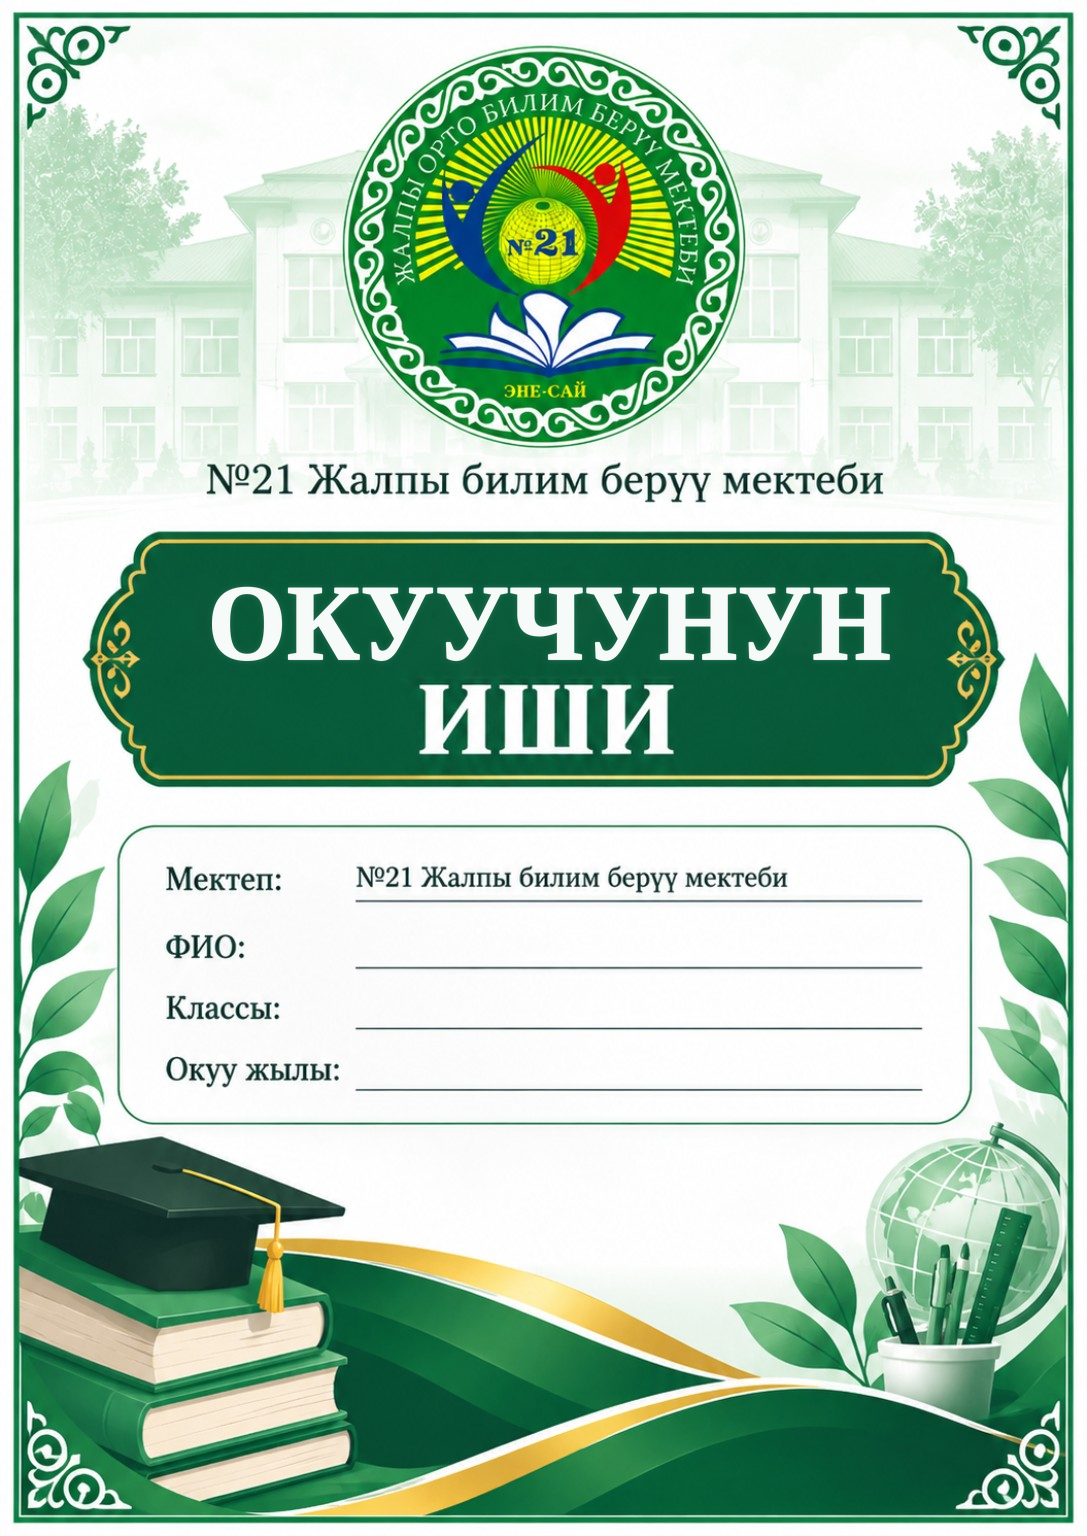
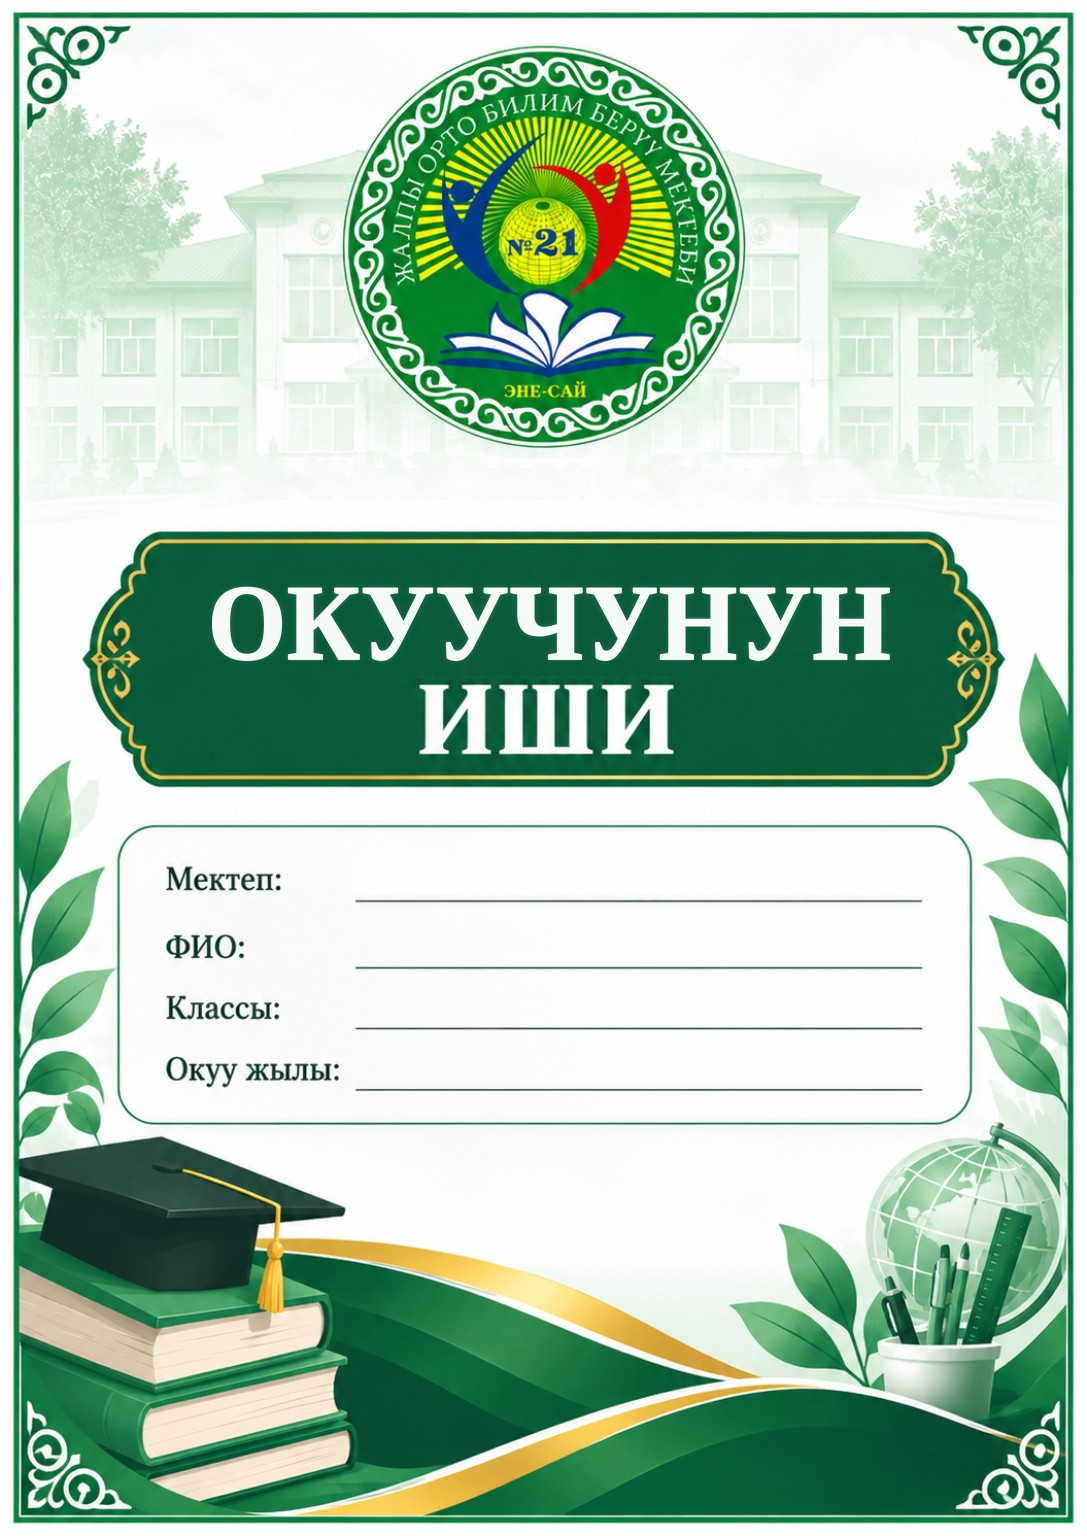
Название школы «№21 ЖББ мектеби» и сборка шаблона с заменой логотипа
- Старая надпись «№21 Жалпы билим берүү мектеби» удалена из шаблона
  (под логотипом и в строке «Мектеп:»); новое название рисуется на Canvas
  шрифтом PT Serif с прежними размером, цветом и положением.
- tools/build_template.py: заголовок, удаление старого названия,
  замена эмблемы на tools/school21_logo.png (если файл есть).

Claude-Session: https://claude.ai/code/session_015X9nsmr8EPCjz2vEMeQuGr

Changed region(s): [[0.1822, 0.2812, 0.8197, 0.3438], [0.3339, 0.5625, 0.7286, 0.5938]]

diff --git a/src/lib/cover.js b/src/lib/cover.js
@@ -1,10 +1,13 @@
 /**
  * Рисование обложки на Canvas.
- * Оригинальный шаблон public/Cover_Template.png используется как фон без изменений —
- * поверх него вписываются только ФИО, класс и учебный год.
+ * Шаблон public/Cover_Template.png (собирается tools/build_template.py) используется как фон —
+ * поверх него вписываются название школы (под логотипом и в строке «Мектеп:»),
+ * ФИО, класс и учебный год.
  *
  * Координаты измерены по пикселям исходного изображения 1087 × 1536.
  */
+export const SCHOOL = '№21 ЖББ мектеби';
+
 export const TEMPLATE = {
   url: `${import.meta.env.BASE_URL}Cover_Template.png`,
   width: 1087,
@@ -12,7 +15,10 @@ export const TEMPLATE = {
   textX: 357, // левый край текста = начало напечатанного «№21 …»
   lineRight: 921, // правый край линий
   baselineAboveLine: 14, // базовая линия текста над чертой
-  lines: { fullName: 967, className: 1028, year: 1089 },
+  lines: { school: 900, fullName: 967, className: 1028, year: 1089 },
+  // Название школы под логотипом: по центру, тем же шрифтом и цветом, что был в оригинале
+  // (размер подобран по ширине прежней строки «№21 Жалпы билим берүү мектеби»: 207…882 px)
+  header: { centerX: 545, baseline: 493, color: '#18372e', fontSize: 42 },
   textColor: '#1f2e2b',
   fontFamily: '"PT Serif", "Times New Roman", serif',
   baseFontSize: 26.5, // совпадает по ширине с напечатанной строкой школы
@@ -46,7 +52,7 @@ let fontPromise = null;
 export function loadFonts() {
   if (!fontPromise) {
     fontPromise = document.fonts
-      .load(`${TEMPLATE.baseFontSize}px "PT Serif"`, 'АаЖжҮүҢңӨө№0123456789–-')
+      .load(`${TEMPLATE.baseFontSize}px "PT Serif"`, 'АаЖжБҮүҢңӨө№0123456789–-')
       .then((faces) => {
         if (!faces.length) throw new Error('Шрифт PT Serif не загрузился.');
       })
@@ -92,6 +98,25 @@ function drawOnLine(ctx, text, lineY, scale) {
   ctx.restore();
 }
 
+function drawHeader(ctx, text, scale) {
+  const { centerX, baseline, color, fontSize } = TEMPLATE.header;
+  ctx.save();
+  ctx.font = `${fontSize * scale}px ${TEMPLATE.fontFamily}`;
+  ctx.fillStyle = color;
+  ctx.strokeStyle = color;
+  ctx.textBaseline = 'alphabetic';
+  ctx.textAlign = 'left';
+  // центрируем по видимым границам букв, как было напечатано на шаблоне
+  const m = ctx.measureText(text);
+  const x = centerX * scale - (m.actualBoundingBoxRight - m.actualBoundingBoxLeft) / 2;
+  ctx.filter = `blur(${0.3 * scale}px)`;
+  ctx.lineWidth = 0.45 * scale;
+  ctx.lineJoin = 'round';
+  ctx.fillText(text, x, baseline * scale);
+  ctx.strokeText(text, x, baseline * scale);
+  ctx.restore();
+}
+
 /**
  * @param {HTMLCanvasElement} canvas
  * @param {{fullName: string, className: string, year: string}} data
@@ -108,7 +133,8 @@ export async function renderCover(canvas, data, scale = 1) {
   ctx.imageSmoothingQuality = 'high';
   ctx.drawImage(img, 0, 0, canvas.width, canvas.height);
 
-  // Школа уже напечатана на шаблоне — повторно не рисуем
+  drawHeader(ctx, SCHOOL, scale);
+  drawOnLine(ctx, SCHOOL, TEMPLATE.lines.school, scale);
   drawOnLine(ctx, data.fullName, TEMPLATE.lines.fullName, scale);
   drawOnLine(ctx, data.className, TEMPLATE.lines.className, scale);
   drawOnLine(ctx, data.year, TEMPLATE.lines.year, scale);

diff --git a/src/App.jsx b/src/App.jsx
@@ -1,10 +1,9 @@
 import { useCallback, useEffect, useMemo, useRef, useState } from 'react';
 import { saveAs } from 'file-saver';
-import { EXPORT_SCALE, canvasToPngBlob, renderCover } from './lib/cover';
+import { EXPORT_SCALE, SCHOOL, canvasToPngBlob, renderCover } from './lib/cover';
 import { buildDocx } from './lib/docx';
 import './App.css';
 
-const SCHOOL = '№21 Жалпы билим берүү мектеби';
 const EMPTY = { fullName: '', className: '', year: '' };
 const YEAR_RE = /^\s*(\d{4})\s*[-–—]\s*(\d{4})\s*$/;
 

diff --git a/tools/build_template.py b/tools/build_template.py
@@ -1,0 +1,136 @@
+"""
+Собирает public/Cover_Template.png из исходного шаблона:
+
+1. Заголовок «СТУДЕНТТИН» → «ОКУУЧУНУН» (tools/replace_title.py).
+2. Удаляет напечатанное название школы — строку под логотипом и строку «Мектеп:».
+   Название школы («№21 ЖББ мектеби») теперь рисует приложение на Canvas
+   тем же шрифтом PT Serif (см. src/lib/cover.js), поэтому его легко поменять.
+3. Удаляет старую эмблему и ставит на её место оригинальный логотип школы
+   из tools/school21_logo.png (PNG с прозрачностью или JPG/PNG на белом фоне).
+   Если файла нет — шаг пропускается и старая эмблема остаётся.
+
+Запуск (нужны Python 3, Pillow, numpy, opencv-python):
+    python3 tools/build_template.py
+"""
+import os
+import sys
+
+import cv2
+import numpy as np
+from PIL import Image
+
+sys.path.insert(0, os.path.dirname(os.path.abspath(__file__)))
+import replace_title  # noqa: E402
+
+ROOT = replace_title.ROOT
+DST = replace_title.DST
+LOGO = os.path.join(ROOT, 'tools', 'school21_logo.png')
+
+# Геометрия на оригинале (пиксели 1087 × 1536)
+# Строки с названием школы: (y0, y1, x0, x1) — полоса удаления, не задевая логотип и черту
+HEADER_BAND = (455, 506, 195, 895)  # под логотипом, крупно; за ним — бледное здание
+# «Мектеп:» — над чертой y = 900. Фон белый и однородный по горизонтали, поэтому каждая
+# строка полосы заливается фоном той же строки справа от текста (x = REF_X0..REF_X1)
+FIELD_BAND = (856, 898, 350, 805)
+REF_X0, REF_X1 = 810, 915
+# Старая эмблема: круг
+EMBLEM_CX, EMBLEM_CY, EMBLEM_R = 543.5, 246.5, 201
+LOGO_DIAMETER = 406  # чуть больше старой, чтобы край новой полностью её перекрыл
+SS = 4  # суперсэмплинг для гладкого края круга
+
+
+def inpaint(img, mask, radius=7):
+    a = np.asarray(img)
+    out = cv2.inpaint(a[:, :, ::-1].copy(), mask, radius, cv2.INPAINT_TELEA)[:, :, ::-1].astype(float)
+    # лёгкое «зерно», чтобы залитая зона не выглядела пластиковой
+    rng = np.random.default_rng(21)
+    noise = rng.normal(0, 0.6, out.shape[:2])[:, :, None]
+    out = np.where((mask > 0)[:, :, None], out + noise, out)
+    return Image.fromarray(np.clip(out, 0, 255).astype(np.uint8))
+
+
+def erase_school_text(img):
+    # строка под логотипом: инпейнтинг только по буквам, чтобы сохранить рисунок здания
+    a = np.asarray(img).astype(float)
+    y0, y1, x0, x1 = HEADER_BAND
+    band = a[y0:y1, x0:x1].mean(2)
+    mask = np.zeros(a.shape[:2], np.uint8)
+    # буквы и их сглаженный край — всё, что заметно темнее фона
+    mask[y0:y1, x0:x1] = ((np.median(band) - band) > 6).astype(np.uint8) * 255
+    mask = cv2.dilate(mask, np.ones((5, 5), np.uint8))
+    clip = np.zeros_like(mask)  # не выходим за полосу
+    clip[y0:y1, x0:x1] = 1
+    img = inpaint(img, mask * clip)
+
+    # строка «Мектеп:»: построчная заливка фоном
+    a = np.asarray(img).astype(float).copy()
+    y0, y1, x0, x1 = FIELD_BAND
+    row_bg = np.median(a[y0:y1, REF_X0:REF_X1], axis=1)  # (строки, RGB)
+    rng = np.random.default_rng(21)
+    noise = rng.normal(0, 0.6, (y1 - y0, x1 - x0))[:, :, None]
+    a[y0:y1, x0:x1] = row_bg[:, None, :] + noise
+    return Image.fromarray(np.clip(a, 0, 255).round().astype(np.uint8))
+
+
+def circle_alpha(size, diameter):
+    """Маска круга с гладким краем (суперсэмплинг)."""
+    big = size * SS
+    yy, xx = np.mgrid[0:big, 0:big]
+    c = (big - 1) / 2
+    inside = ((xx - c) ** 2 + (yy - c) ** 2) <= (diameter * SS / 2) ** 2
+    m = Image.fromarray(inside.astype(np.uint8) * 255).resize((size, size), Image.LANCZOS)
+    return np.asarray(m).astype(float) / 255.0
+
+
+def load_logo():
+    """Логотип: квадрат по кругу эмблемы, RGBA с круглой альфой."""
+    logo = Image.open(LOGO).convert('RGBA')
+    a = np.asarray(logo).astype(float)
+    rgb, alpha = a[:, :, :3], a[:, :, 3]
+    if alpha.min() > 250:
+        # непрозрачная картинка: фон — почти белые пиксели по краям
+        content = (rgb.min(2) < 235)
+    else:
+        content = alpha > 128
+    ys, xs = np.where(content)
+    x0, x1, y0, y1 = xs.min(), xs.max() + 1, ys.min(), ys.max() + 1
+    side = max(x1 - x0, y1 - y0)
+    cx, cy = (x0 + x1) / 2, (y0 + y1) / 2
+    box = (round(cx - side / 2), round(cy - side / 2), round(cx + side / 2), round(cy + side / 2))
+    sq = logo.crop(box)  # пропорции 1:1 — эмблема не растягивается
+    sq = sq.resize((LOGO_DIAMETER, LOGO_DIAMETER), Image.LANCZOS)
+    out = np.asarray(sq).astype(float)
+    # обрезаем по кругу на полпикселя внутри, чтобы не тянуть белый ореол фона
+    out[:, :, 3] *= circle_alpha(LOGO_DIAMETER, LOGO_DIAMETER - 1)
+    return Image.fromarray(np.clip(out, 0, 255).astype(np.uint8), 'RGBA')
+
+
+def replace_emblem(img):
+    if not os.path.exists(LOGO):
+        print('Нет', LOGO, '— старая эмблема оставлена без изменений.')
+        return img
+    # 1) убираем старую эмблему вместе с тенью и восстанавливаем фон здания
+    h, w = img.height, img.width
+    yy, xx = np.mgrid[0:h, 0:w]
+    mask = (((xx - EMBLEM_CX) ** 2 + (yy - EMBLEM_CY) ** 2) <= (EMBLEM_R + 7) ** 2).astype(np.uint8) * 255
+    img = inpaint(img, mask, radius=15)
+    # 2) ставим новую эмблему точно по центру прежней
+    logo = load_logo()
+    left = round(EMBLEM_CX - LOGO_DIAMETER / 2)
+    top = round(EMBLEM_CY - LOGO_DIAMETER / 2)
+    img = img.convert('RGBA')
+    img.alpha_composite(logo, (left, top))
+    return img.convert('RGB')
+
+
+def main():
+    img = replace_title.load()
+    img = replace_title.draw_word(replace_title.erase_line(img), replace_title.NEW_WORD)
+    img = erase_school_text(img)
+    img = replace_emblem(img)
+    img.save(DST, optimize=True)
+    print('Готово:', DST)
+
+
+if __name__ == '__main__':
+    main()

diff --git a/README.md b/README.md
@@ -81,10 +81,18 @@ npm run preview    # http://localhost:4173
 - «ОКУУЧУНУН» нарисовано тем же типом шрифта (жирная антиква), с той же высотой букв, базовой линией, центровкой, белым цветом и мягким свечением;
 - строка «ИШИ», золотая рамка, орнаменты и всё остальное — пиксели оригинала.
 
-Исходная фотография сохранена в `tools/Cover_Template_original.png`. Пересобрать шаблон можно скриптом (нужны Python 3, Pillow, numpy, opencv-python):
+### Название школы и логотип
+
+Название школы — «№21 ЖББ мектеби» (константа `SCHOOL` в `src/lib/cover.js`). Старая надпись «№21 Жалпы билим берүү мектеби» удалена из шаблона в обоих местах (под логотипом и в строке «Мектеп:»), а новое название рисуется на Canvas шрифтом PT Serif с теми же размером, цветом, выравниванием и положением.
+
+Логотип: положите оригинальную эмблему школы в `tools/school21_logo.png` (PNG с прозрачностью или картинка на белом фоне) и пересоберите шаблон. Скрипт удалит старую эмблему, восстановит фон здания и поставит новую точно по центру, по кругу, без растяжения.
+
+### Сборка шаблона
+
+Исходная фотография сохранена в `tools/Cover_Template_original.png`. Пересобрать шаблон (заголовок, удаление старого названия школы, замена логотипа) можно скриптом (нужны Python 3, Pillow, numpy, opencv-python):
 
 ```bash
-python3 tools/replace_title.py
+python3 tools/build_template.py
 ```
 
 Папка `tools/` в сборку и на GitHub Pages не попадает.
@@ -92,8 +100,8 @@ python3 tools/replace_title.py
 ## Как это работает
 
 - **Предпросмотр** перерисовывается при каждом изменении полей.
-- **Школа** уже напечатана на шаблоне и повторно не добавляется. В форме она показана только для информации.
-- **Шрифт** PT Serif встроен в проект (`@fontsource/pt-serif`), работает офлайн, поддерживает кириллицу, кыргызские ү, ң, ө и знак №. Размер подобран по ширине напечатанной строки «№21 Жалпы билим берүү мектеби».
+- **Школа** («№21 ЖББ мектеби») вписывается автоматически под логотипом и в строку «Мектеп:». В форме она показана только для информации.
+- **Шрифт** PT Serif встроен в проект (`@fontsource/pt-serif`), работает офлайн, поддерживает кириллицу, кыргызские ү, ң, ө и знак №. Размер подобран по ширине строки школы, напечатанной на исходном шаблоне.
 - **Длинное ФИО** автоматически уменьшается, чтобы не выйти за линию.
 - **Учебный год** проверяется по формату `2026–2027` (можно вводить с обычным дефисом).
 - **PNG** — 2174 × 3072 px, рисуется на Canvas с удвоенным разрешением.
